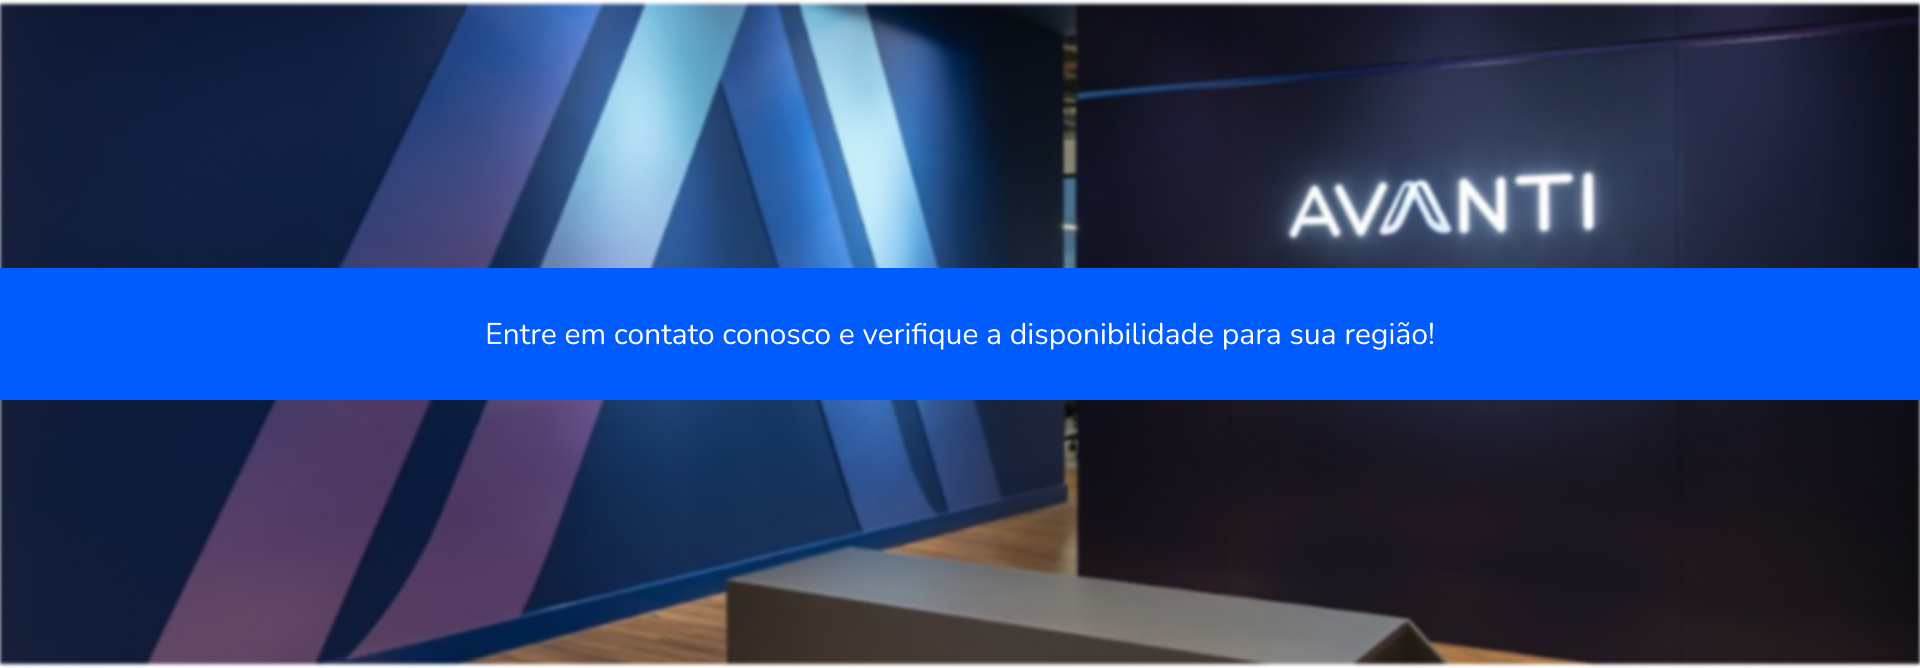
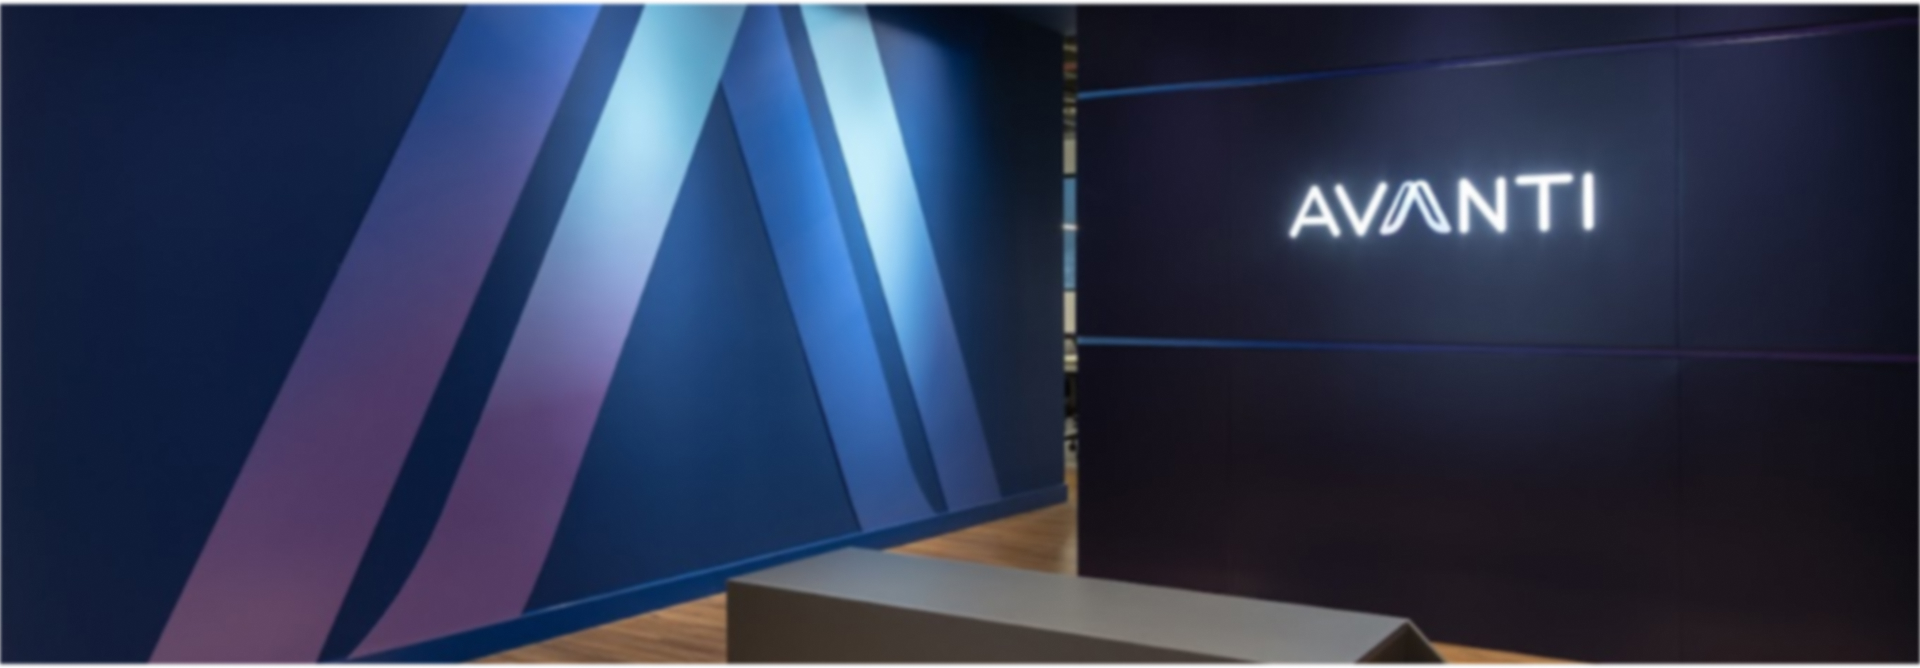
feat: create cta section

Changed region(s): [[0.0, 0.3892, 1.0, 0.5988]]

diff --git a/styles/cta/cta.css b/styles/cta/cta.css
@@ -1,3 +1,23 @@
 .cta {
-    /* background-image: ; */
+    display: flex;
+    align-items: center;
+    justify-content: center;
+
+    background-image: url(../../public/images/terceiro-banner.jpg);
+    background-size: cover;
+    background-position: center;
+    background-repeat: no-repeat;
+    height: 660px;
+    width: 100%;
+}
+
+.cta__text {
+    height: 132px;
+    width: 100%;
+    background-color: var(--main_color);
+    color: #fff;
+    display: flex;
+    align-items: center;
+    justify-content: center;
+    
 }
